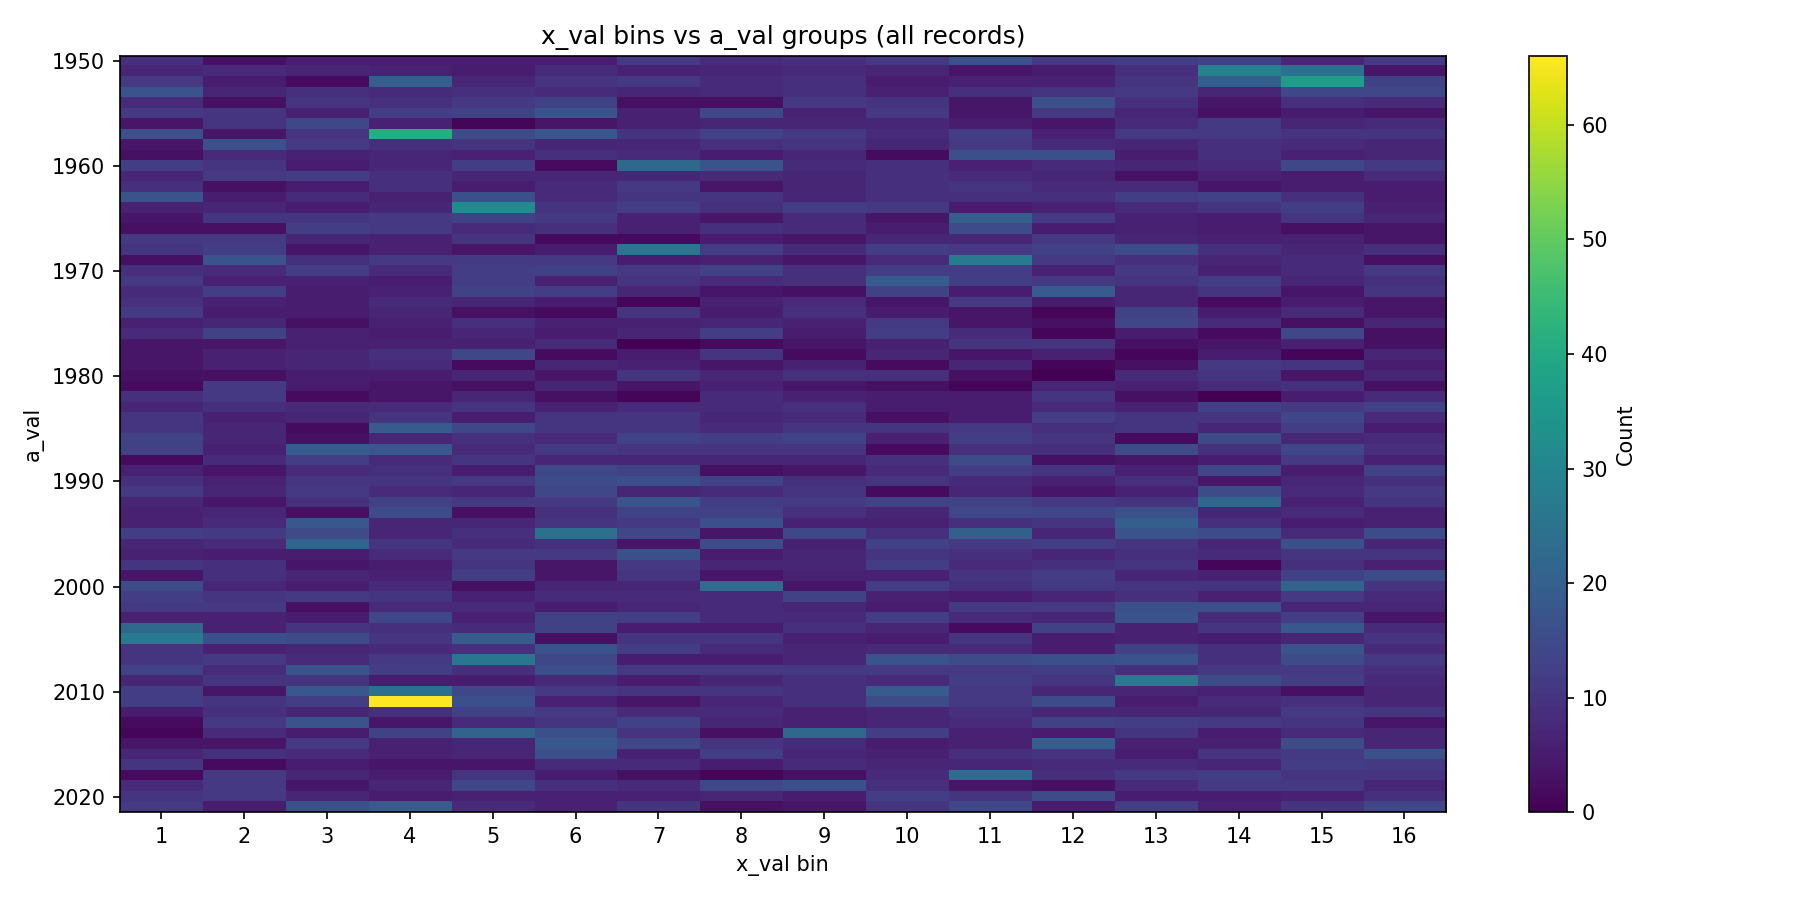
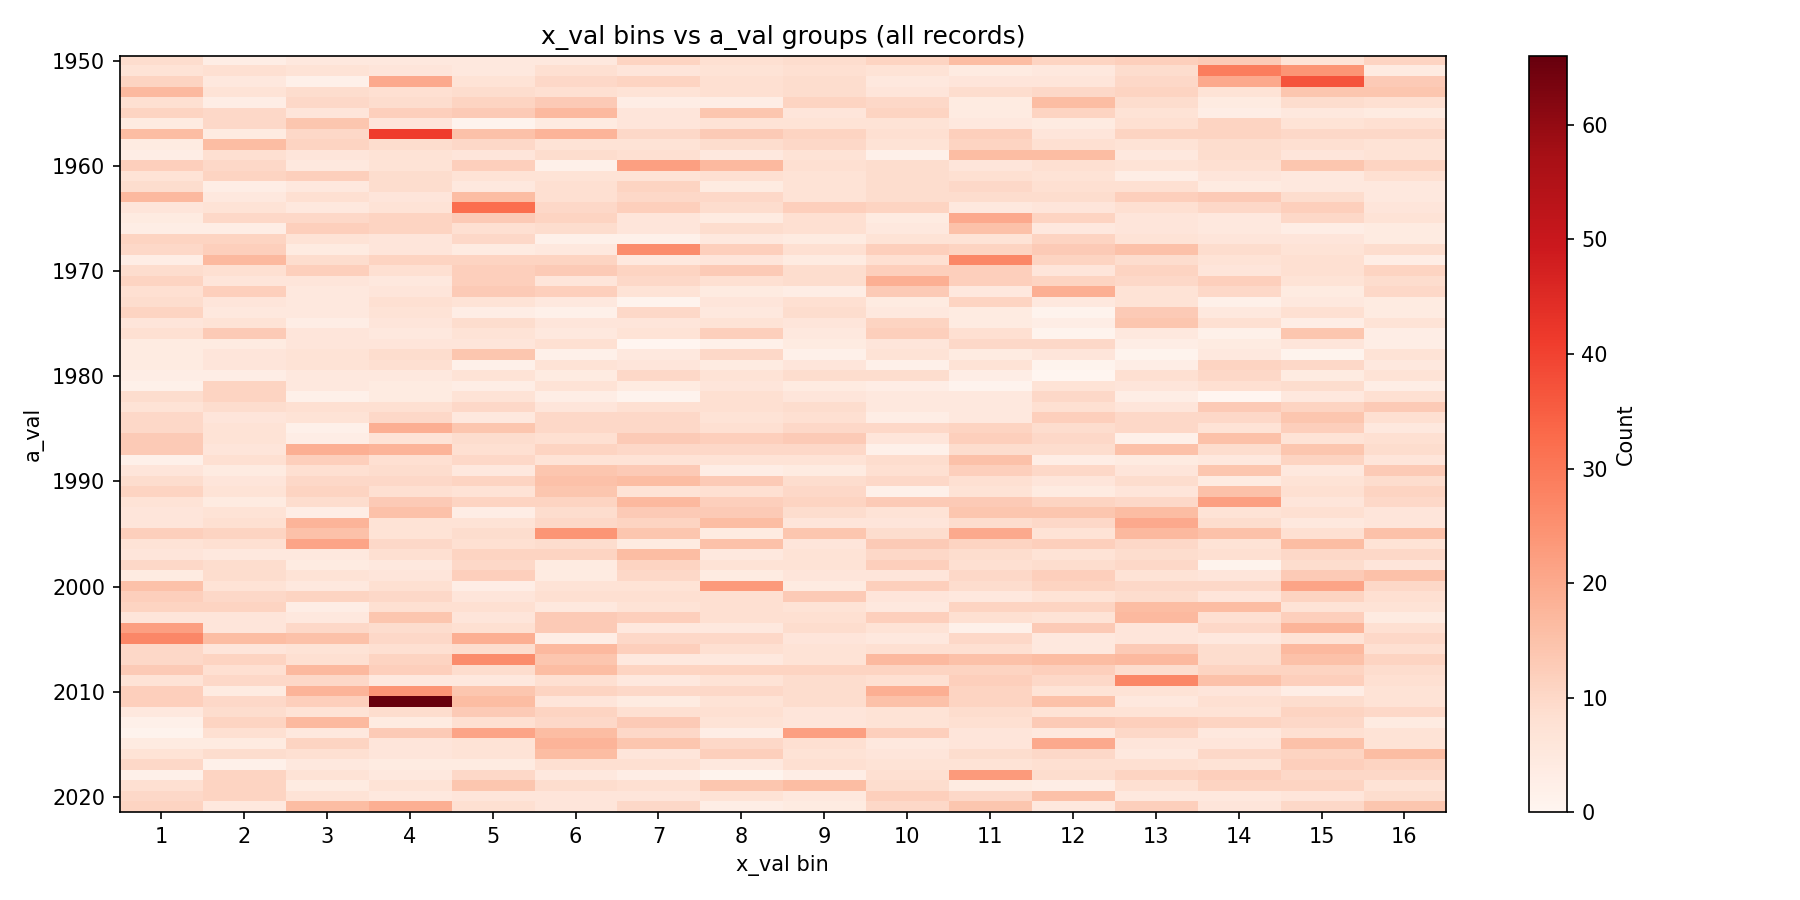
Change _all heatmap color scale from viridis to white-to-red

diff --git a/src/visualization_case_0.py b/src/visualization_case_0.py
@@ -134,7 +134,7 @@ def main():
     make_heatmap_binned_vs_categorical(
         df, 'x_val', 'a_val',
         title='x_val bins vs a_val groups (all records)',
-        cmap='viridis',
+        cmap='Reds',
         output_path=os.path.join(OUTPUT_DIR, 'case_0_heatmap_x_vs_a_all.png')
     )
 
@@ -151,7 +151,7 @@ def main():
     make_heatmap_binned_vs_binned(
         df, 'x_val', 'y_val',
         title='x_val bins (16) vs y_val bins (16) (all records)',
-        cmap='viridis',
+        cmap='Reds',
         output_path=os.path.join(OUTPUT_DIR, 'case_0_heatmap_x_vs_y_all.png')
     )
 
@@ -167,7 +167,7 @@ def main():
     make_heatmap_binned_vs_binned(
         df, 'y_val', 'z_val',
         title='y_val bins (16) vs z_val bins (16) (all records)',
-        cmap='viridis',
+        cmap='Reds',
         output_path=os.path.join(OUTPUT_DIR, 'case_0_heatmap_y_vs_z_all.png')
     )
 
